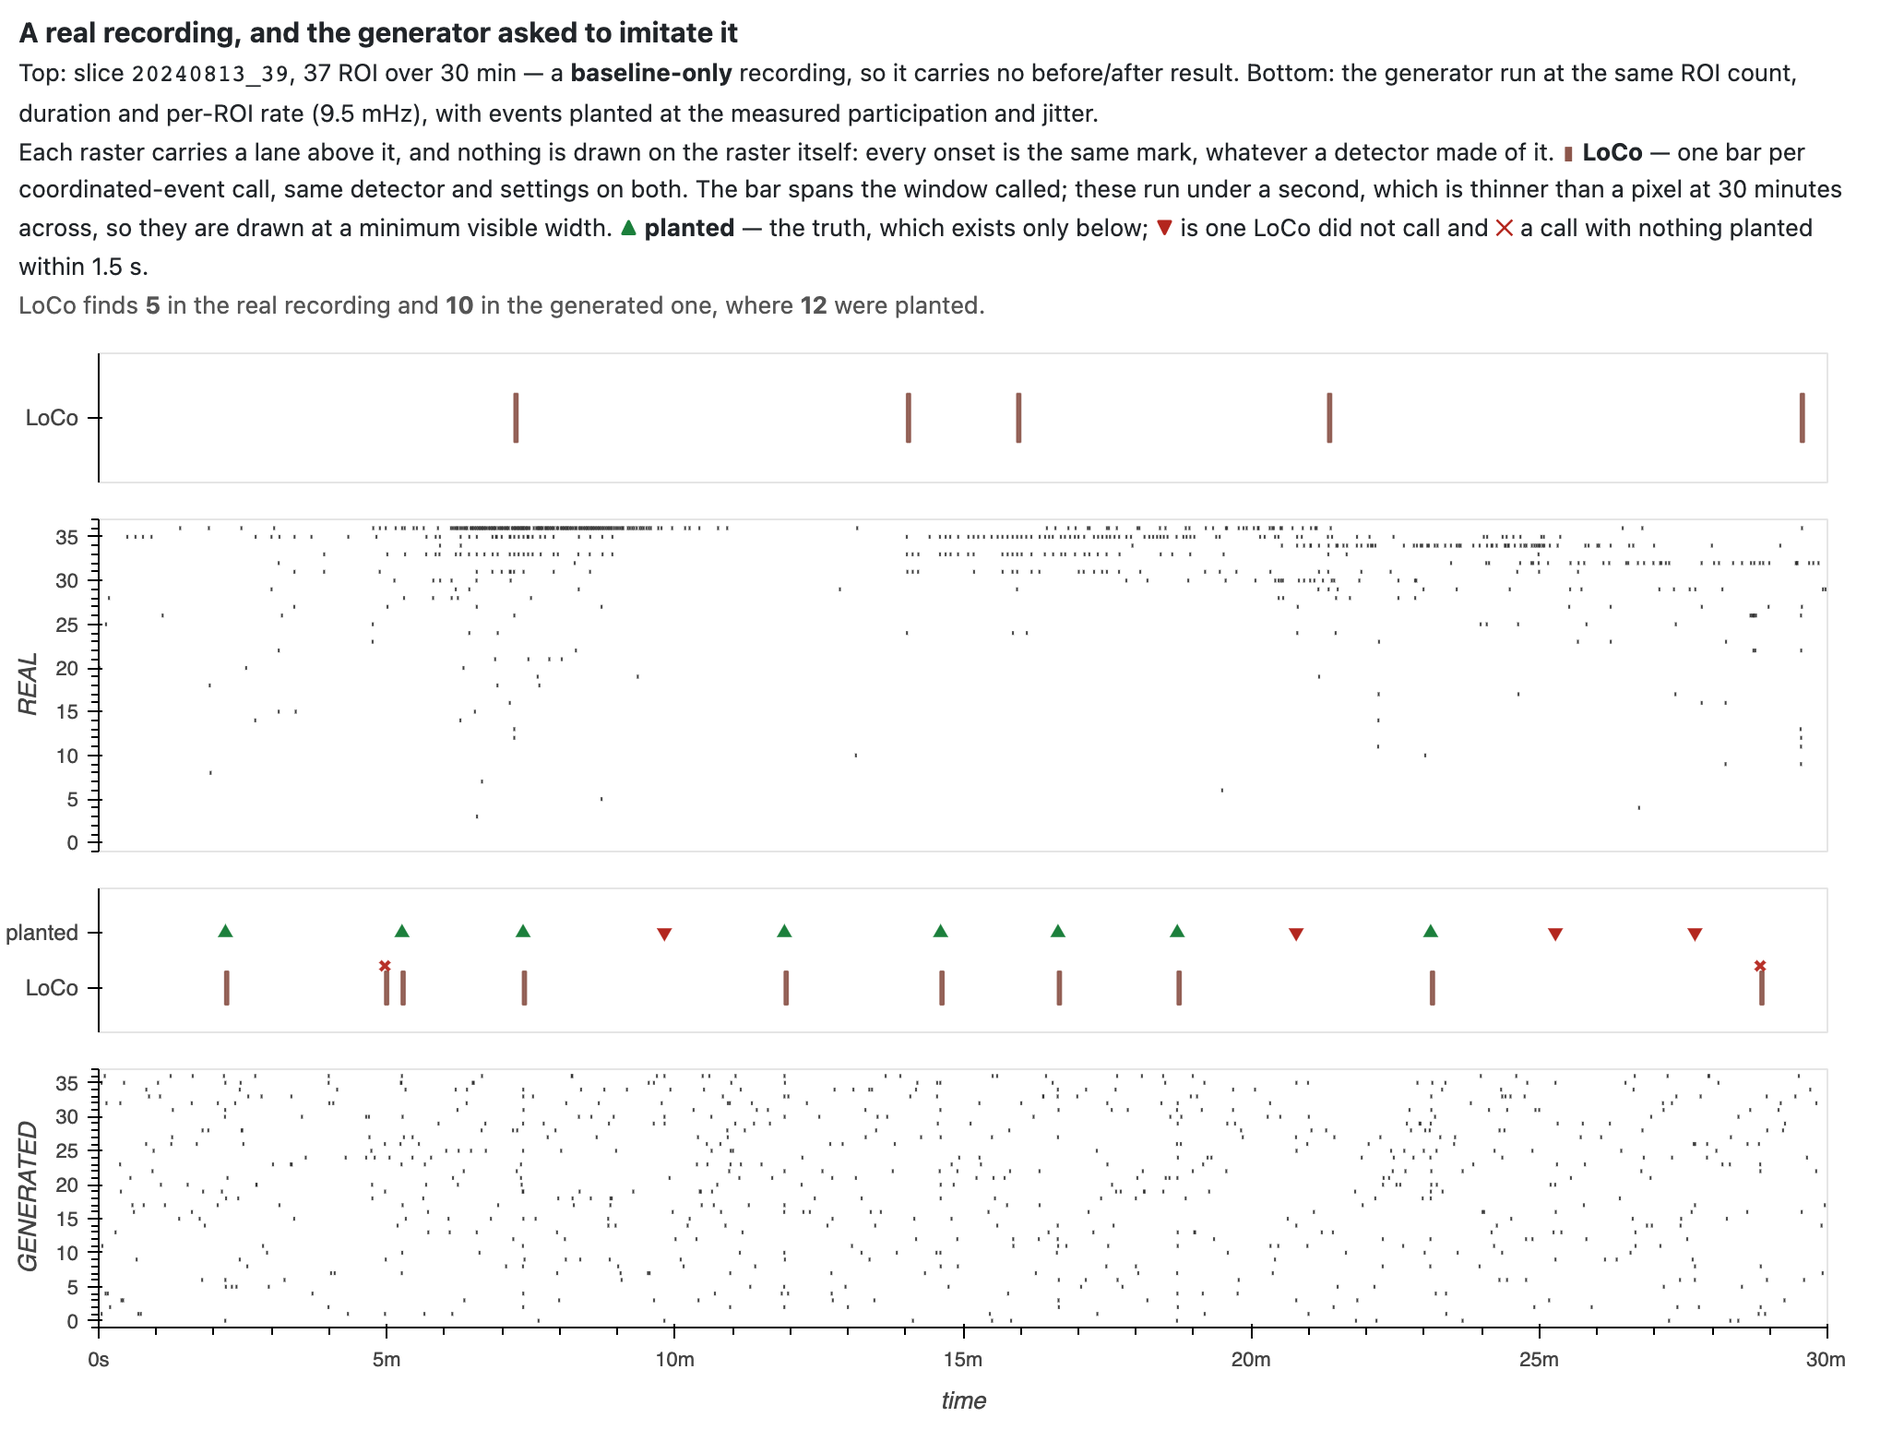
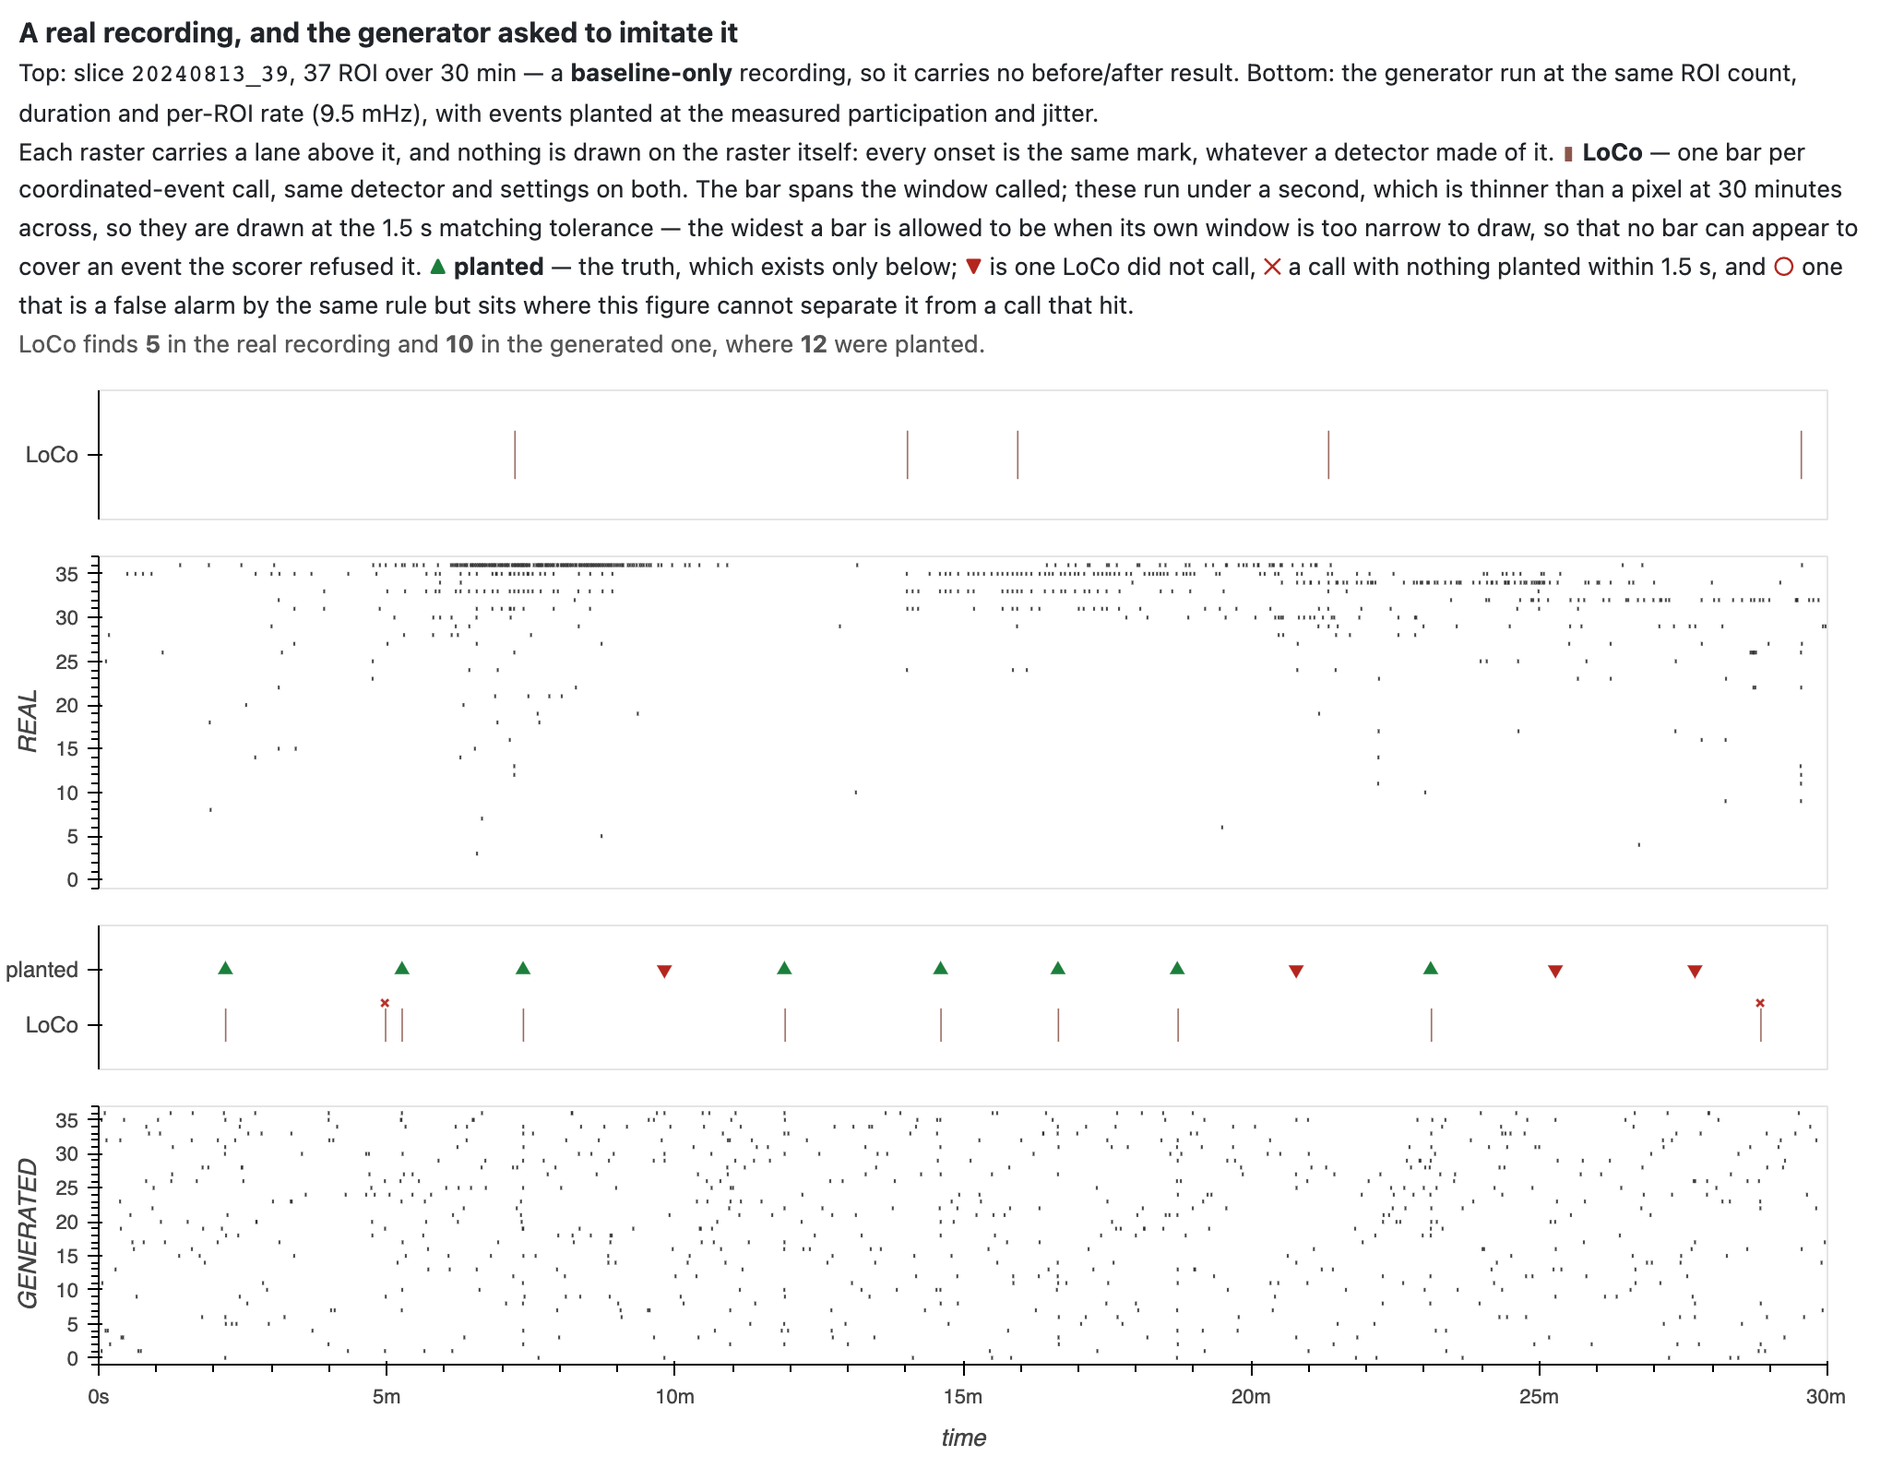
The bars were drawn wider than the tolerance they are judged by
Tony, twice now: the false-alarm marks are false. They were, and the arithmetic
was innocent both times — every ✕ on the published page is a detection with no
planted event inside 1.5 s, and the scorer can prove it. The lie was geometric.

A detection is drawn as its own window, and where that window is too narrow to
see, at a floor. The floor was 0.2% of the record and referred to nothing else:
3.6 s on a thirty-minute figure, against a matching tolerance of 1.5. Five of the
six detectors report windows of 0.3–2.1 s, so five of six lanes drew every call
more than twice as wide as the window it is scored in. The reader saw a bar
covering a planted event and an ✕ over the top of it, and there is no way to read
that except as the figure calling its own hit a miss. The floor is now the
tolerance, so a bar can never claim more time than the scorer allows; SCE bins at
ten seconds, genuinely, and its bars stay wide because that is true of SCE. The
1 px outline goes too — on a sub-pixel bar the stroke was most of the ink.

That leaves the case the ring already half-covered. `dup_times` catches a second
call landing *within* tolerance of an event some other call claimed. It does not
catch one landing just outside: rate+context fired at 530.9 s and again at
537.2 s, one matched the event at 536.2 and one missed it by 5.3 s, and at
1.8 s per pixel those are the same three pixels of page. Three ✕ on the live site
[…]

diff --git a/src/bugarach/ui/diagnostic.py b/src/bugarach/ui/diagnostic.py
@@ -71,13 +71,29 @@ FALSE_ALARM = "#b3261e"
 RASTER_INK = "#2b2b2b"
 PROBE_BAND = "#e8a33d"
 
+#: How far apart, in pixels, two marks in one lane have to be before this figure
+#: is entitled to give them different verdicts. The ✕ is about 5 px across; two
+#: of them a pixel apart are one blot, and a reader asked to tell a false alarm
+#: from the hit beside it has nothing to look at. Used by `lane_panel` to decide
+#: which false alarms it can honestly draw as such — never by the scorer.
+SEPARABLE_PX = 5.0
 
-def _spans(onsets, widths, ext):
+
+def _spans(onsets, widths, ext, tol_sec: float = 1.5):
     """(onset, width) -> [(t0, t1)] clipped to the extent.
 
     A zero or non-finite width becomes a small visible sliver rather than
     nothing: a detection drawn as zero pixels reads as "the detector found
     nothing here", which is the opposite of the truth.
+
+    **The sliver is capped at the matching tolerance, and the cap is the point.**
+    The floor was 0.2% of the record and nothing else — 3.6 s on a 30-minute
+    figure, against a `tol_sec` of 1.5. Five of the six detectors report windows
+    of 0.3–2.1 s, so every one of their bars was drawn *wider than the window it
+    is judged in*: a reader saw a bar covering a planted event while the scorer
+    called that same detection a false alarm for missing by 2 s. The picture
+    contradicted its own verdict. A bar still runs wide when the detector
+    genuinely claims that much — SCE bins at 10 s and its bars say so.
     """
     if onsets is None or np.size(onsets) == 0:
         return []
@@ -87,7 +103,7 @@ def _spans(onsets, widths, ext):
     if w.size != o.size:
         w = np.zeros_like(o)
     span = float(ext[1] - ext[0])
-    floor = max(span * 0.002, 1e-9)
+    floor = min(max(span * 0.002, 1e-9), max(float(tol_sec), 1e-9))
     out = []
     for a, b in zip(o, w):
         if not np.isfinite(a):
@@ -138,11 +154,15 @@ def lane_panel(lanes: dict, *, ext, gt=None, tol_sec: float = 1.5,
     for key, ev in lanes.items():
         y = ypos[key]
         colour = COLORS.get(key, "#555555")
-        sp = _spans(ev[0], ev[1] if len(ev) > 1 else None, ext)
+        sp = _spans(ev[0], ev[1] if len(ev) > 1 else None, ext, tol_sec)
         if sp:
+            # No stroke. A 1 px outline on a bar whose fill is under a pixel
+            # wide is most of the ink, and it is ink that stands for nothing —
+            # it made every detection look about 3 px of time across whatever
+            # the detector reported.
             items.append(hv.Rectangles(
                 [(a, y - 0.30, b, y + 0.30) for a, b in sp]
-            ).opts(color=colour, line_color=colour, line_width=1, alpha=0.9))
+            ).opts(color=colour, line_color=None, line_alpha=0, alpha=0.9))
         if gt is not None:
             # spans, not points — the same rule the scoreboard and the bench
             # use. Scored as points, a binned detector's bin edge lands up to a
@@ -159,15 +179,37 @@ def lane_panel(lanes: dict, *, ext, gt=None, tol_sec: float = 1.5,
             dup = set(np.round(sc.dup_times, 6).tolist())
             spurious = np.array([t for t in sc.fa_times
                                  if round(float(t), 6) not in dup])
+            # AND THE SAME MISTAKE ONE PIXEL OVER. `dup` catches a second call
+            # that lands *within tolerance* of a claimed event. It does not catch
+            # one that lands just outside — 6 s from a planted event this figure
+            # draws at 1.8 s per pixel — where the reader sees a single column of
+            # ink carrying both a hit and an ✕ and can only conclude the ✕ marks
+            # the hit. Three of them did exactly that on the published page. So a
+            # spurious call closer to one of this detector's own matched calls
+            # than this figure can separate gets the duplicate ring rather than
+            # the ✕: the arithmetic is untouched — it is still a false alarm and
+            # still costs precision — but the picture stops asserting a
+            # distinction it has no pixels to show.
+            if spurious.size and np.isfinite(sc.matched).any():
+                sec_per_px = float(ext[1] - ext[0]) / max(width, 1)
+                near = sec_per_px * SEPARABLE_PX
+                won = sc.matched[np.isfinite(sc.matched)]
+                unseparable = np.array(
+                    [np.min(np.abs(won - t)) <= near for t in spurious])
+                dup_times = np.concatenate([sc.dup_times,
+                                            spurious[unseparable]])
+                spurious = spurious[~unseparable]
+            else:
+                dup_times = sc.dup_times
             if spurious.size:
                 items.append(hv.Scatter(
                     (spurious, np.full(spurious.size, y + 0.40))).opts(
-                    marker="x", size=7, color=FALSE_ALARM, line_width=2,
+                    marker="x", size=5.5, color=FALSE_ALARM, line_width=1.4,
                     alpha=0.95))
-            if sc.dup_times.size:
+            if dup_times.size:
                 items.append(hv.Scatter(
-                    (sc.dup_times, np.full(sc.dup_times.size, y + 0.40))).opts(
-                    marker="circle", size=5, color=FALSE_ALARM, alpha=0.55,
+                    (dup_times, np.full(dup_times.size, y + 0.40))).opts(
+                    marker="circle", size=4, color=FALSE_ALARM, alpha=0.55,
                     line_color=FALSE_ALARM, line_width=1, fill_alpha=0.0))
 
     if gt is not None and len(getattr(gt, "distractors", [])):
@@ -436,14 +478,23 @@ def legend_html(lanes: dict, gt=None, member_source: str | None = None) -> str:
     entries = [
         (_key("bar", COLORS.get(src, "#555")),
          "<b>Lane bar</b> — one row per detector; the bar spans a detection's "
-         "<i>onset → onset + width</i>. Colour is detector identity:<br>"
+         "<i>onset → onset + width</i>, and never more than the matching "
+         "tolerance when that window is too narrow to draw. Most of these "
+         "windows run under two seconds, which is about a pixel here, so the "
+         "bars are hairlines by honesty rather than by style; SCE bins at ten "
+         "seconds and its bars are visibly wider because they are. "
+         "Colour is detector identity:<br>"
          f'<div style="display:flex;flex-wrap:wrap;margin-top:3px">{swatches}</div>'),
         (_key("x", FALSE_ALARM),
-         "<b>False alarm</b> — a detection near <b>no</b> planted event."),
+         "<b>False alarm</b> — a detection near <b>no</b> planted event, and far "
+         "enough from this detector's own hits to be told apart from them here."),
         (_key("circle", FALSE_ALARM),
-         "<b>Duplicate</b> — it lands on a real event another detection already "
-         "claimed, and matching is one-to-one, so it is left over. "
-         "Fragmentation, not hallucination."),
+         "<b>Second call, not an independent one</b> — a detection that costs "
+         "precision like any other false alarm, but that a reader should not "
+         "count as a separate miss-fire. Either it lands on a real event another "
+         "detection already claimed (matching is one-to-one, so it is left over "
+         "— fragmentation, not hallucination), or it sits closer to one of this "
+         "detector's own hits than this figure can separate."),
         (_key("triangle", FOUND),
          "<b>Planted event, recovered</b> by at least one detector."),
         *([(_key("inverted", MISSED),

diff --git a/tests/test_diagnostic.py b/tests/test_diagnostic.py
@@ -43,6 +43,24 @@ def test_non_finite_width_still_draws():
     assert len(sp) == 1 and sp[0][1] > sp[0][0]
 
 
+def test_a_bar_is_never_drawn_wider_than_the_tolerance_it_is_judged_by():
+    """The floor used to be 0.2% of the record with no reference to `tol_sec`.
+
+    On a 30-minute figure that is 3.6 s, and five of the six detectors report
+    windows under 2.1 s — so every bar was drawn more than twice as wide as the
+    window the scorer matches in, and a detection could visibly cover a planted
+    event the same figure marked a false alarm. Tony reported it twice.
+    """
+    ext = (0.0, 1800.0)
+    (t0, t1), = _spans([500.0], [0.4], ext, tol_sec=1.5)
+    assert t1 - t0 <= 1.5 + 1e-9, (
+        f"a 0.4 s detection is drawn {t1 - t0:.2f} s wide against a 1.5 s "
+        "tolerance — the bar claims more than the scorer allows")
+    # a detector that really does claim ten seconds still gets to say so
+    (w0, w1), = _spans([500.0], [9.7], ext, tol_sec=1.5)
+    assert w1 - w0 == pytest.approx(9.7)
+
+
 def test_every_raster_onset_is_drawn_identically(sim):
     """The raster shows the recording, not a detector's reading of it.
 
@@ -70,6 +88,67 @@ def test_raster_takes_no_detection_spans():
     """A caller cannot re-introduce the highlight by passing spans."""
     import inspect
     assert "member_spans" not in inspect.signature(raster_panel).parameters
+
+
+def _lane_marks(panel):
+    """{marker: sorted x values} for the point markers in a lane panel."""
+    out = {}
+    for el in panel:
+        if not isinstance(el, hv.Scatter):
+            continue
+        style = el.opts.get("style").kwargs
+        if style.get("alpha") == 0:
+            continue                     # the invisible x-dimension anchor
+        out.setdefault(style.get("marker"), []).extend(
+            np.asarray(el.dimension_values(0), dtype=float).tolist())
+    return {k: sorted(v) for k, v in out.items()}
+
+
+def test_a_false_alarm_is_not_drawn_on_top_of_a_hit(sim):
+    """✕ means "this detector fired at nothing". It must not land on a column
+    that also carries a hit, because then it reads as marking the hit.
+
+    The duplicate ring already covered a second call *within* tolerance. It did
+    not cover one just outside it: on the published page three ✕ sat 1–4 px from
+    a call by the same detector that had matched, which is the complaint Tony has
+    now made twice ("false alarms are false — again, I thought we fixed it").
+    Nothing about the scoring changes here; both are still false alarms and still
+    cost precision. What changes is that the figure stops asserting a difference
+    it has no pixels to show.
+    """
+    from bugarach.simulate import GroundTruth, PlantedEvent
+
+    gt = GroundTruth(events=[PlantedEvent(time=500.0, frac=1.0, n_part=10,
+                                          rois=tuple(range(10)), jitter_sec=0.0)])
+    ext = (0.0, 1800.0)                  # 1.8 s per pixel at width=1000
+    near, far = 506.0, 900.0             # 6 s away = 3.3 px; 400 s away = 222 px
+    lanes = {"coact": (np.array([500.0, near, far]), np.zeros(3))}
+    marks = _lane_marks(lane_panel(lanes, ext=ext, gt=gt, width=1000))
+
+    assert far in marks.get("x", []), "a call at nothing must still get its ✕"
+    assert near not in marks.get("x", []), (
+        f"a false alarm {near - 500.0:g} s from this detector's own hit is "
+        "3 px away on this figure and is drawn as an independent miss-fire")
+    assert near in marks.get("circle", []), (
+        "it should carry the ring that means 'a second call, not an independent "
+        "one' — the count is unchanged, the claim is honest")
+
+
+def test_the_ring_rule_is_resolution_dependent_not_a_wider_tolerance(sim):
+    """Zoom in and the same pair becomes two verdicts again.
+
+    If this ever starts behaving like a widened matching tolerance, the figure is
+    hiding false alarms rather than declining to over-claim.
+    """
+    from bugarach.simulate import GroundTruth, PlantedEvent
+
+    gt = GroundTruth(events=[PlantedEvent(time=500.0, frac=1.0, n_part=10,
+                                          rois=tuple(range(10)), jitter_sec=0.0)])
+    lanes = {"coact": (np.array([500.0, 506.0]), np.zeros(2))}
+    zoomed = _lane_marks(lane_panel(lanes, ext=(490.0, 520.0), gt=gt, width=1000))
+    assert 506.0 in zoomed.get("x", []), (
+        "over a 30 s window 6 s is a third of the panel — at that width the "
+        "figure can show the difference and must")
 
 
 def test_builds_with_lanes_and_ground_truth(sim):

diff --git a/tools/build_site.py b/tools/build_site.py
@@ -99,8 +99,13 @@ INDEX = """<!doctype html>
   :root {{ color-scheme: light dark; }}
   body {{ font: 16px/1.65 system-ui, sans-serif; margin: 0; }}
   .col {{ max-width: 46rem; margin: 2.2rem auto 3rem; padding: 0 1.2rem; }}
-  h1 {{ font-size: 1.6rem; margin-bottom: .2rem; }}
-  .sub {{ color: #666; margin-top: 0; }}
+  /* Name and sentence share one line: the page says what it is in the width of
+     a headline, and the figure starts a line and a half further up the screen.
+     flex-wrap rather than nowrap — on a phone it becomes two lines, which is
+     the right answer there and is not what "one line" was asking about. */
+  h1 {{ font-size: 1.35rem; margin: 0 0 .2rem; display: flex; flex-wrap: wrap;
+        align-items: baseline; gap: .55rem; }}
+  h1 .sub {{ font-size: 1rem; font-weight: 400; color: #666; }}
   /* the figure breaks out of the text column: it is the lead, not an
      illustration slotted into the prose. */
   figure.lead {{ width: min(94vw, 78rem); margin: 1.6rem 0 1.9rem 50%;
@@ -127,9 +132,8 @@ INDEX = """<!doctype html>
 {nav}
 
 <div class="col">
-<h1>bugarach</h1>
-<p class="sub">Six coordinated-event detectors ported from MATLAB, tested against
-planted ground truth.</p>
+<h1>bugarach<span class="sub">Six coordinated-event detectors ported from MATLAB,
+tested on planted ground truth.</span></h1>
 
 {lead}
 
@@ -578,8 +582,13 @@ LEAD_FIGURE = """<figure class="lead">
   they measure rather than for the tool — <span class="key">rate+context</span>
   is RateDetect, and <span class="key">binned SCE</span> is SCE.
   In the lanes, <span class="key">&#10007;</span> marks a false alarm and
-  <span class="key">&#9711;</span> a second call on an event another detection
-  had already claimed. The top lane is the ground truth:
+  <span class="key">&#9711;</span> one that a reader should not count as a
+  separate miss-fire — a second call on an event another detection had already
+  claimed, or one too close to this detector's own hit for the picture to
+  separate. The bars are the windows the detectors called: most run under two
+  seconds, which is about a pixel at this width, so they are hairlines; SCE bins
+  at ten seconds and its bars are wider because they are.
+  The top lane is the ground truth:
   <span class="key">&#9650;</span> an event some detector recovered,
   <span class="key">&#9660;</span> one they all missed.
   The <span class="key">shaded block</span> fires at a higher rate but contains

diff --git a/tools/make_reality_check.py b/tools/make_reality_check.py
@@ -219,12 +219,17 @@ def build(args):
         f'<span style="color:#8c564b">▮</span> <b>LoCo</b> — one bar per '
         f'coordinated-event call, same detector and settings on both. The bar '
         f'spans the window called; these run under a second, which is thinner '
-        f'than a pixel at 30 minutes across, so they are drawn at a minimum '
-        f'visible width. '
+        f'than a pixel at 30 minutes across, so they are drawn at the 1.5 s '
+        f'matching tolerance — the widest a bar is allowed to be when its own '
+        f'window is too narrow to draw, so that no bar can appear to cover an '
+        f'event the scorer refused it. '
         f'<span style="color:#1b7f3b">▲</span> <b>planted</b> — the truth, '
         f'which exists only below; <span style="color:#b3261e">▼</span> is one '
-        f'LoCo did not call and <span style="color:#b3261e">✕</span> a call '
-        f'with nothing planted within 1.5 s.<br>'
+        f'LoCo did not call, <span style="color:#b3261e">✕</span> a call '
+        f'with nothing planted within 1.5 s, and '
+        f'<span style="color:#b3261e">○</span> one that is a false alarm by the '
+        f'same rule but sits where this figure cannot separate it from a call '
+        f'that hit.<br>'
         f'<span style="color:#555">LoCo finds <b>{det["real"].onset_sec.size}</b> '
         f'in the real recording and <b>{det["synthetic"].onset_sec.size}</b> in '
         f'the generated one, where <b>{len(gt.times)}</b> were planted.</span>'
